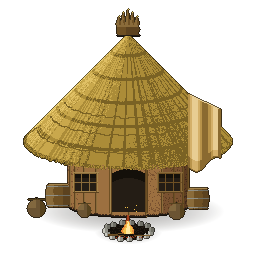
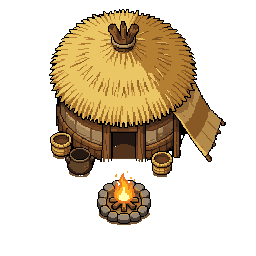
Town Center L1 art: isolated camp scene, no flag, transparent
Finalizes the campfire-and-roundhut composition already staged in the
working tree: strict top-down, thin barrels, stone-ring campfire (simple
flame silhouette, left clean for the code-drawn flicker overlay), no
banner/pole, genuinely transparent background (verified alpha, not just
visual). Re-measured SMOKE_AT.tc against the actual roof-peak pixels
(15.5/32 vs 16/32 — sub-pixel). Removed the superseded hand-coded
assets/src/tc-l1.html generator so it can't overwrite this art again, and
updated the manifest comment that referenced it.

diff --git a/assets/manifest.js b/assets/manifest.js
@@ -10,7 +10,7 @@ window.ASSET_MANIFEST = {
   version: 1,
   atlases: [
     {
-      /* Town Center L1 — the founding hut on a 2×2 footprint, authored and
+      /* Town Center L1 — the founding camp on a 2×2 footprint, authored and
          KEPT at its full 256×256.
 
          No dw/dh here, deliberately. A sprite's on-screen size never came from
@@ -20,15 +20,16 @@ window.ASSET_MANIFEST = {
          let the camera stretch what was left — at the default zoom (1.5) a 2×2
          hall covers ~96 screen px, so the engine was UPSCALING a 64px bitmap
          to 96. Held at 256 the browser resamples straight from the master to
-         whatever the camera asks for, and it only gets sharper as you zoom in.
+         whatever the camera asks for, and it only gets sharper as you zoom in
+         (see R.blitBld, which turns smoothing on only for this kind of blit).
 
          Safe because everything downstream sizes itself off the source canvas
          rather than assuming 64: R.darkOf / ruinOf / ashOf / collapseSheet all
          read base.width, and the work-site scaffold overlay is blitted into
          the same world rect rather than composited onto the sprite.
 
-         Both tribes share the hut: faction banners only arrive at L3, per the
-         level design — which is also why this art may bake its own cloth. */
+         Both tribes share the camp: faction banners only arrive at L3, per
+         the level design */
       image: 'assets/tc-l1.png',
       sprites: {
         'building/tc/1':   { x: 0, y: 0, w: 256, h: 256 },

diff --git a/js/render.js b/js/render.js
@@ -1677,7 +1677,7 @@ const R = {
      in flames doesn't bother — its own fire is already the story. */
   SMOKE_AT: {
     house:   { x: 21.5 / 32, y: 3 / 32 },     // the chimney pot
-    tc:      { x: 16 / 32, y: 1 / 32 },       // the hall's roof-hole / ridge
+    tc:      { x: 15.5 / 32, y: 1 / 32 },     // the hall's roof-hole / ridge
     lodge:   { x: 12 / 32, y: 7 / 32 },       // the smoking rack's fire
     warcamp: { x: 15.5 / 32, y: 9 / 32 },     // the campfire under the ridge pole
     trade:   { x: 3 / 16, y: 1 / 16 },        // the trader's brazier
